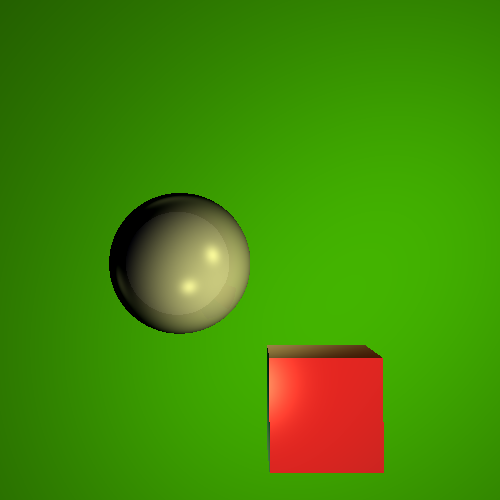
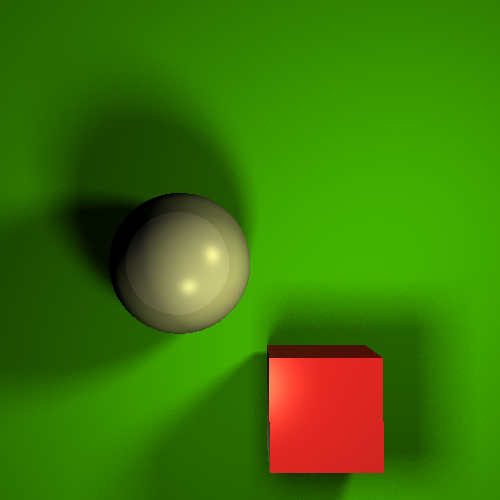
final fixes

diff --git a/hw2_raytracer/raytracer/ray_tracer.py b/hw2_raytracer/raytracer/ray_tracer.py
@@ -178,8 +178,6 @@ def trace_ray(ray ,i , j, image_array, scene_settings, objects,origin_point, dep
         return return_color
 
 
-
-
 def apply_lightning_effect(objects,closest_surface,normal,ray,scene_settings,surface_material,material_diffuse,material_specular,view):
     return_color = np.zeros(3)
     for light in objects:
@@ -189,46 +187,34 @@ def apply_lightning_effect(objects,closest_surface,normal,ray,scene_settings,sur
         else:
 
             shadow_intensity = light.shadow_intensity
-
-            # Calculate the vector from the intersection point to the light and normalize it
+            # Intersection point - light vector
             light_intersection = light.position - closest_surface[1]
             light_intersection /= np.linalg.norm(light_intersection)
-
-            # Calculate the vector from the intersection point to the reflected light and normalize it
+            # Intersection point - reflected light vector
             reflected_light_intersction = 2 * np.dot(light_intersection,normal) * normal - light_intersection
             reflected_light_intersction /= np.linalg.norm(reflected_light_intersction)
 
-            # Calculate the reflected ray
             reflected_ray = ray - 2 * np.dot(ray, normal) * normal
             reflected_ray /= np.linalg.norm(reflected_ray)
 
-            # Get the grid width
             grid_width = light.radius
 
-            # Get the grid ratio by dividing the grid width by the number of shadow rays (getting the size of each
-            # grid cell)
             grid_ratio = grid_width / scene_settings.root_number_shadow_rays
-
-            # Create a vector that is different from the intersection to light vector
+            # Building the vector for adjusting the light local space
             rand_vector = np.array([light_intersection[0], light_intersection[1], light_intersection[2] + 1])
-            # Normalize the vector
             rand_vector = rand_vector / np.linalg.norm(rand_vector)
-            # Get a vector that is perpendicular to the intersection to light vector and the random vector
+            # Define the direction in lightning local space
             light_v_up = np.cross(-light_intersection, rand_vector)
-            # Normalize the vector
-            light_v_up = light_v_up / np.linalg.norm(light_v_up)
-            # Get a vector that is perpendicular to the intersection to light vector and the light v up vector
+            light_v_up /= np.linalg.norm(light_v_up)
+        
             light_v_right = np.cross(-light_intersection, light_v_up)
-            # Normalize the vector
-            light_v_right = light_v_right / np.linalg.norm(light_v_right)
+            light_v_right /= np.linalg.norm(light_v_right)
 
-            # Initialize the shadow rays count
             shadow_rays_count = 0
 
-            # Go for every grid cell
             for x in range(int(scene_settings.root_number_shadow_rays)):
                 for y in range(int(scene_settings.root_number_shadow_rays)):
-                    # Calculate the point on the grid (with a random offset)
+                    #Calulate the point with randomness in order to avoid banding
                     point_on_grid = light.position - light_v_right * grid_ratio * (
                         x - math.floor(
                         scene_settings.root_number_shadow_rays / 2)) - light_v_up * grid_ratio * (y - math.floor(
@@ -236,7 +222,7 @@ def apply_lightning_effect(objects,closest_surface,normal,ray,scene_settings,sur
                                                                         (np.random.rand() - 0.5) * grid_ratio * light_v_up)
             
                     grid_ray = - (point_on_grid - closest_surface[1])
-                    grid_ray = grid_ray / np.linalg.norm(grid_ray)
+                    grid_ray /= np.linalg.norm(grid_ray)
 
                    
                     point_closest_intersection_distance, point_closest_surface = find_closest_intersection(objects,point_on_grid,grid_ray)
@@ -250,18 +236,12 @@ def apply_lightning_effect(objects,closest_surface,normal,ray,scene_settings,sur
                     if is_hit:
                         shadow_rays_count += 1
 
-            # Calculate the light intensity
-            light_intensity = (1 - shadow_intensity) * 1 + shadow_intensity * (
-                    shadow_rays_count / (scene_settings.root_number_shadow_rays ** 2))
-
-            # Calculate the diffusion and specular for the current light
+            light_intensity = (1 - shadow_intensity) * 1 + shadow_intensity * (shadow_rays_count / (scene_settings.root_number_shadow_rays ** 2))
             diffusion_and_specular = (np.array(material_diffuse) * np.dot(normal, light_intersection) + \
                                         np.array(material_specular) * np.dot(view,
                                                                             reflected_light_intersction) ** surface_material.shininess) * light_intensity * light.specular_intensity
 
-            # Add the diffusion and specular of the current light to the return color
-            return_color += np.array(diffusion_and_specular) * \
-                            (1 - surface_material.transparency) * np.array(light.color) * 255
+            return_color += np.array(diffusion_and_specular) * (1 - surface_material.transparency) * np.array(light.color) * 255
                             
     return return_color,reflected_ray
                        
@@ -273,16 +253,14 @@ def find_closest_intersection(objects, origin_point, ray):
     for item in objects:
         if type(item) == Sphere:
             #Calculate coefficients to find components of the quadratic equaiton
-            coefficients = [1, np.dot(2 * ray, np.array(origin_point) - np.array(item.position)),
-                            np.linalg.norm(np.array(origin_point) - np.array(
-                            item.position)) ** 2 - item.radius ** 2]
+            b = np.dot(2 * ray, np.array(origin_point) - np.array(item.position))
+            c = np.linalg.norm(np.array(origin_point) - np.array(item.position)) ** 2 - item.radius ** 2
             
-            discriminant = (coefficients[1] ** 2) - (4 * coefficients[0] * coefficients[2])
+            discriminant = (b ** 2) - (4 * c)
             
             #If discriminent positive find results for the equation
             if discriminant >= 0:
-                roots = [(-coefficients[1] - math.sqrt(discriminant)) / (2 * coefficients[0]),
-                         (-coefficients[1] + math.sqrt(discriminant)) / (2 * coefficients[0])]
+                roots = [(-b - math.sqrt(discriminant)) / 2,(-b + math.sqrt(discriminant)) / 2]
 
                 for t in roots:
                     if 1e-7 < t < closest_intersection_dist:
